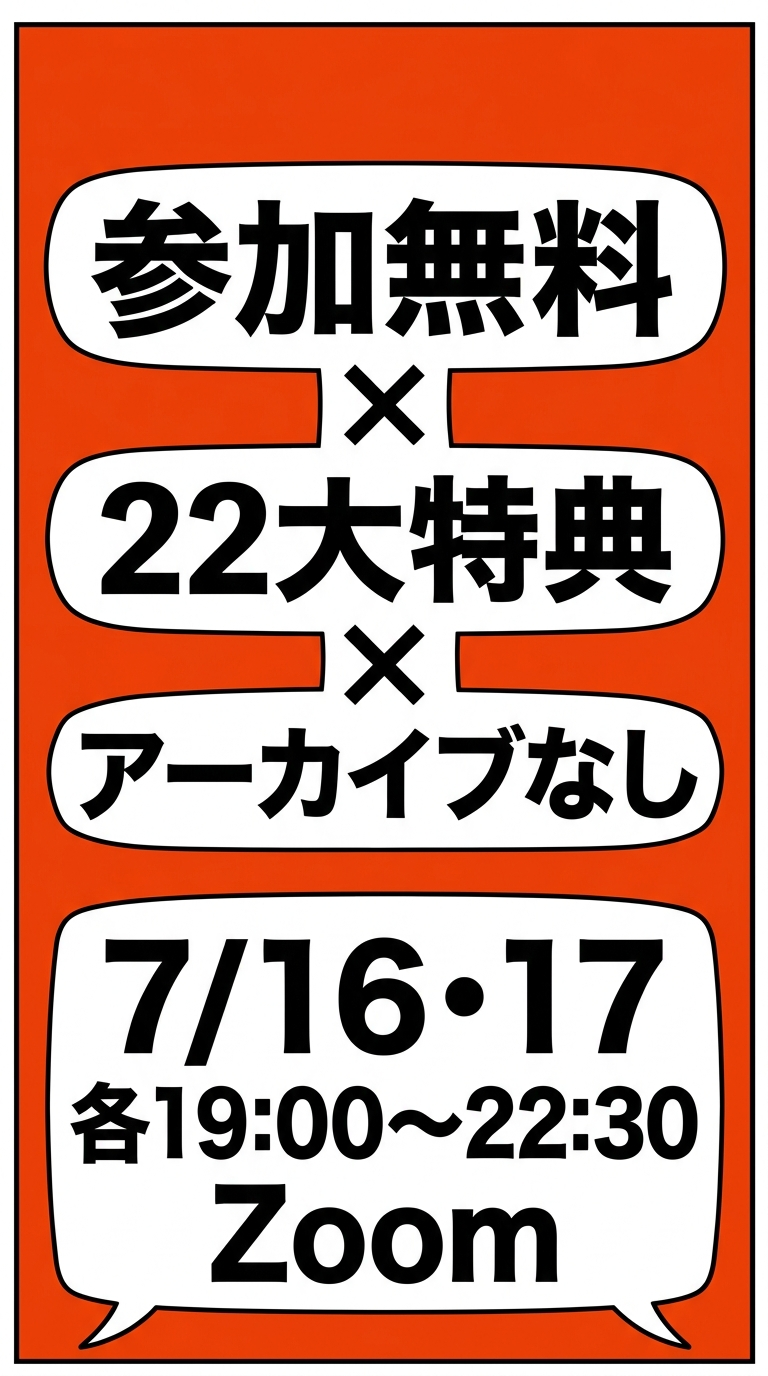
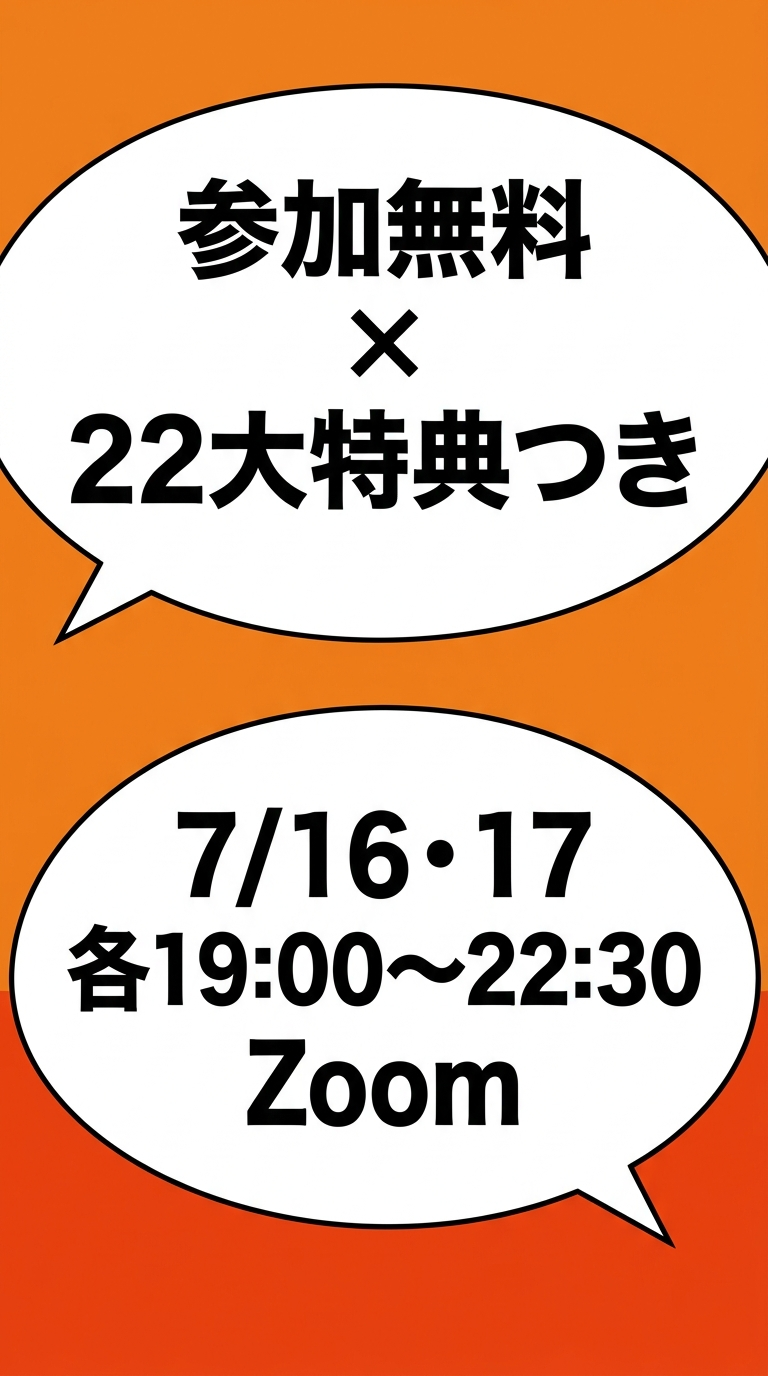
fix: コマ39文字化け修正／アーカイブはゼロ削除・アーカイブなしの強調を抑制（v3）

diff --git a/index.html b/index.html
@@ -39,78 +39,78 @@
 <div class="lp">
 
   <!-- Step1 FV -->
-  <img class="panel" src="panels/panel_01.png?v=2" alt="コマ1">
-  <img class="panel" src="panels/panel_02.png?v=2" alt="コマ2">
-  <img class="panel" src="panels/panel_03.png?v=2" alt="コマ3">
-  <img class="panel" src="panels/panel_04.png?v=2" alt="コマ4 FV">
+  <img class="panel" src="panels/panel_01.png?v=3" alt="コマ1">
+  <img class="panel" src="panels/panel_02.png?v=3" alt="コマ2">
+  <img class="panel" src="panels/panel_03.png?v=3" alt="コマ3">
+  <img class="panel" src="panels/panel_04.png?v=3" alt="コマ4 FV">
 
   <!-- Step2 共感 -->
-  <img class="panel" src="panels/panel_05.png?v=2" alt="コマ5">
-  <img class="panel" src="panels/panel_06.png?v=2" alt="コマ6">
-  <img class="panel" src="panels/panel_07.png?v=2" alt="コマ7">
-  <img class="panel" src="panels/panel_08.png?v=2" alt="コマ8">
-  <img class="panel" src="panels/panel_09.png?v=2" alt="コマ9">
+  <img class="panel" src="panels/panel_05.png?v=3" alt="コマ5">
+  <img class="panel" src="panels/panel_06.png?v=3" alt="コマ6">
+  <img class="panel" src="panels/panel_07.png?v=3" alt="コマ7">
+  <img class="panel" src="panels/panel_08.png?v=3" alt="コマ8">
+  <img class="panel" src="panels/panel_09.png?v=3" alt="コマ9">
 
   <!-- Step3 失敗 -->
-  <img class="panel" src="panels/panel_10.png?v=2" alt="コマ10">
-  <img class="panel" src="panels/panel_11.png?v=2" alt="コマ11">
-  <img class="panel" src="panels/panel_12.png?v=2" alt="コマ12">
-  <img class="panel" src="panels/panel_13.png?v=2" alt="コマ13">
-  <img class="panel" src="panels/panel_14.png?v=2" alt="コマ14">
+  <img class="panel" src="panels/panel_10.png?v=3" alt="コマ10">
+  <img class="panel" src="panels/panel_11.png?v=3" alt="コマ11">
+  <img class="panel" src="panels/panel_12.png?v=3" alt="コマ12">
+  <img class="panel" src="panels/panel_13.png?v=3" alt="コマ13">
+  <img class="panel" src="panels/panel_14.png?v=3" alt="コマ14">
 
   <!-- Step4 出会い -->
-  <img class="panel" src="panels/panel_15.png?v=2" alt="コマ15">
-  <img class="panel" src="panels/panel_16.png?v=2" alt="コマ16">
-  <img class="panel" src="panels/panel_17.png?v=2" alt="コマ17">
-  <img class="panel" src="panels/panel_18.png?v=2" alt="コマ18">
-  <img class="panel" src="panels/panel_19.png?v=2" alt="コマ19">
+  <img class="panel" src="panels/panel_15.png?v=3" alt="コマ15">
+  <img class="panel" src="panels/panel_16.png?v=3" alt="コマ16">
+  <img class="panel" src="panels/panel_17.png?v=3" alt="コマ17">
+  <img class="panel" src="panels/panel_18.png?v=3" alt="コマ18">
+  <img class="panel" src="panels/panel_19.png?v=3" alt="コマ19">
 
   <!-- Step5 小さな成功 -->
-  <img class="panel" src="panels/panel_20.png?v=2" alt="コマ20">
-  <img class="panel" src="panels/panel_21.png?v=2" alt="コマ21">
-  <img class="panel" src="panels/panel_22.png?v=2" alt="コマ22">
-  <img class="panel" src="panels/panel_23.png?v=2" alt="コマ23">
-  <img class="panel" src="panels/panel_24.png?v=2" alt="コマ24">
+  <img class="panel" src="panels/panel_20.png?v=3" alt="コマ20">
+  <img class="panel" src="panels/panel_21.png?v=3" alt="コマ21">
+  <img class="panel" src="panels/panel_22.png?v=3" alt="コマ22">
+  <img class="panel" src="panels/panel_23.png?v=3" alt="コマ23">
+  <img class="panel" src="panels/panel_24.png?v=3" alt="コマ24">
 
   <!-- Step6 試練 -->
-  <img class="panel" src="panels/panel_25.png?v=2" alt="コマ25">
-  <img class="panel" src="panels/panel_26.png?v=2" alt="コマ26">
-  <img class="panel" src="panels/panel_27.png?v=2" alt="コマ27">
-  <img class="panel" src="panels/panel_28.png?v=2" alt="コマ28">
+  <img class="panel" src="panels/panel_25.png?v=3" alt="コマ25">
+  <img class="panel" src="panels/panel_26.png?v=3" alt="コマ26">
+  <img class="panel" src="panels/panel_27.png?v=3" alt="コマ27">
+  <img class="panel" src="panels/panel_28.png?v=3" alt="コマ28">
 
   <!-- Step7 理想未来 -->
-  <img class="panel" src="panels/panel_29.png?v=2" alt="コマ29">
-  <img class="panel" src="panels/panel_30.png?v=2" alt="コマ30">
-  <img class="panel" src="panels/panel_31.png?v=2" alt="コマ31">
-  <img class="panel" src="panels/panel_32.png?v=2" alt="コマ32">
-  <img class="panel" src="panels/panel_33.png?v=2" alt="コマ33">
+  <img class="panel" src="panels/panel_29.png?v=3" alt="コマ29">
+  <img class="panel" src="panels/panel_30.png?v=3" alt="コマ30">
+  <img class="panel" src="panels/panel_31.png?v=3" alt="コマ31">
+  <img class="panel" src="panels/panel_32.png?v=3" alt="コマ32">
+  <img class="panel" src="panels/panel_33.png?v=3" alt="コマ33">
 
   <!-- Step8 CTA1 -->
-  <img class="panel" src="panels/panel_34.png?v=2" alt="コマ34">
-  <img class="panel" src="panels/panel_35.png?v=2" alt="コマ35">
-  <img class="panel" src="panels/panel_36.png?v=2" alt="コマ36 CTA">
+  <img class="panel" src="panels/panel_34.png?v=3" alt="コマ34">
+  <img class="panel" src="panels/panel_35.png?v=3" alt="コマ35">
+  <img class="panel" src="panels/panel_36.png?v=3" alt="コマ36 CTA">
   <div class="cta">
     <div class="lead">次は、あなたの番です。<br>22大特典は当日リアルタイム参加の方だけ。</div>
     <a class="btn" href="https://sub.ai-poket.com/p/bJ4HdngMAQlT?ftid=Xs6lhzPLLhAw" target="_blank" rel="noopener">▶ 無料で参加登録する（22大特典つき）</a>
-    <div class="note">7/16（木）・7/17（金）各19:00〜22:30｜Zoom｜参加無料｜アーカイブなし</div>
+    <div class="note">7/16（木）・7/17（金）各19:00〜22:30｜Zoom｜参加無料</div>
   </div>
 
   <!-- Step9 FAQ・特典 -->
-  <img class="panel" src="panels/panel_37.png?v=2" alt="コマ37">
-  <img class="panel" src="panels/panel_38.png?v=2" alt="コマ38">
-  <img class="panel" src="panels/panel_39.png?v=2" alt="コマ39">
-  <img class="panel" src="panels/panel_40.png?v=2" alt="コマ40 特典一覧">
-  <img class="panel" src="panels/panel_41.png?v=2" alt="コマ41 CTA">
+  <img class="panel" src="panels/panel_37.png?v=3" alt="コマ37">
+  <img class="panel" src="panels/panel_38.png?v=3" alt="コマ38">
+  <img class="panel" src="panels/panel_39.png?v=3" alt="コマ39">
+  <img class="panel" src="panels/panel_40.png?v=3" alt="コマ40 特典一覧">
+  <img class="panel" src="panels/panel_41.png?v=3" alt="コマ41 CTA">
   <div class="cta">
-    <div class="lead">登録は30秒。特典は22個。アーカイブは、ゼロ。</div>
+    <div class="lead">登録は30秒。特典は22個。席だけ先に確保を。</div>
     <a class="btn" href="https://sub.ai-poket.com/p/bJ4HdngMAQlT?ftid=Xs6lhzPLLhAw" target="_blank" rel="noopener">▶ 今すぐ無料登録する</a>
     <div class="note">7/16（木）・7/17（金）各19:00〜22:30｜Zoom｜参加無料</div>
   </div>
 
   <!-- Step10 緊急・最終CTA -->
-  <img class="panel" src="panels/panel_42.png?v=2" alt="コマ42">
-  <img class="panel" src="panels/panel_43.png?v=2" alt="コマ43">
-  <img class="panel" src="panels/panel_44.png?v=2" alt="コマ44 最終CTA">
+  <img class="panel" src="panels/panel_42.png?v=3" alt="コマ42">
+  <img class="panel" src="panels/panel_43.png?v=3" alt="コマ43">
+  <img class="panel" src="panels/panel_44.png?v=3" alt="コマ44 最終CTA">
   <div class="cta">
     <div class="lead">「登録だけしておけば良かった…」を、繰り返さない。<br>労働は時間で稼ぐ。副業は"本物の情報"で稼ぐ。</div>
     <a class="btn" href="https://sub.ai-poket.com/p/bJ4HdngMAQlT?ftid=Xs6lhzPLLhAw" target="_blank" rel="noopener">▶ 無料参加登録はこちら（22大特典つき）</a>
@@ -126,7 +126,7 @@
 <!-- 常時表示CTAバー -->
 <div class="sticky">
   <a href="https://sub.ai-poket.com/p/bJ4HdngMAQlT?ftid=Xs6lhzPLLhAw" target="_blank" rel="noopener">▶ 無料で参加登録する（22大特典つき）</a>
-  <div class="sub">7/16・17 各19:00〜22:30｜Zoom｜参加無料｜アーカイブなし</div>
+  <div class="sub">7/16・17 各19:00〜22:30｜Zoom｜参加無料</div>
 </div>
 </body>
 </html>